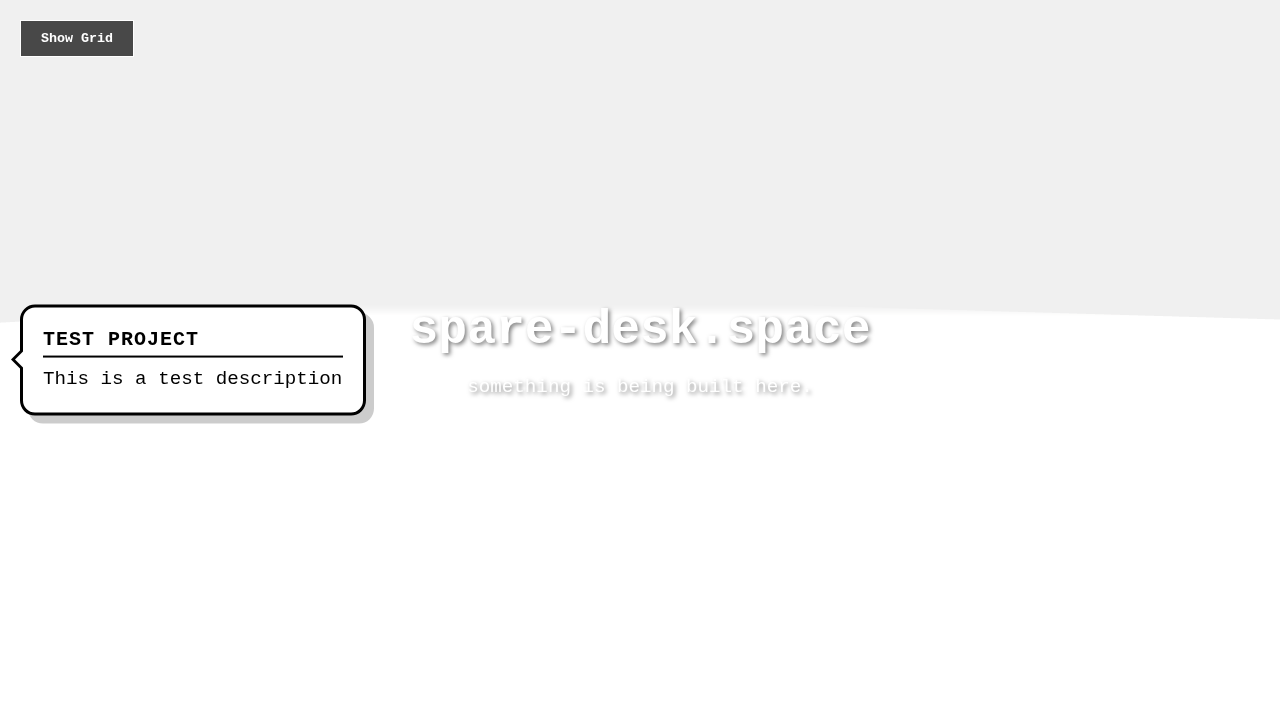
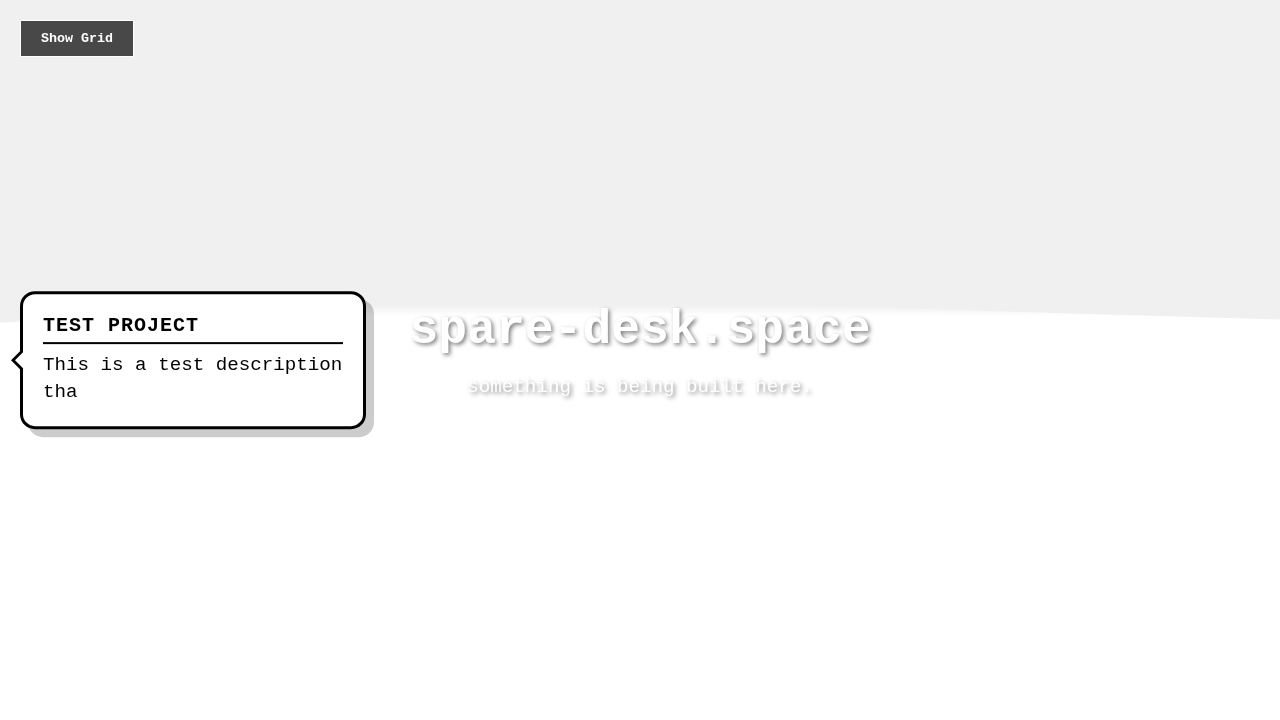
Speed up typewriter tooltip effect

Changed region(s): [[0.0, 0.3972, 0.3125, 0.6111], [0.2812, 0.4278, 0.3125, 0.4583]]

diff --git a/index.html b/index.html
@@ -784,7 +784,7 @@
                     clearInterval(typingInterval);
                     typingInterval = null;
                 }
-            }, 30); // Speed: 30ms per character
+            }, 10); // Speed: 10ms per character
         }
 
         function clearTooltip() {
